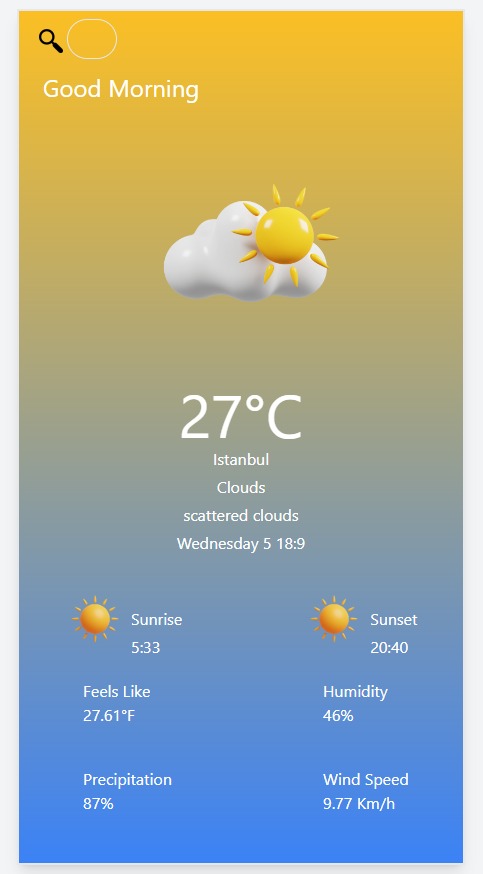
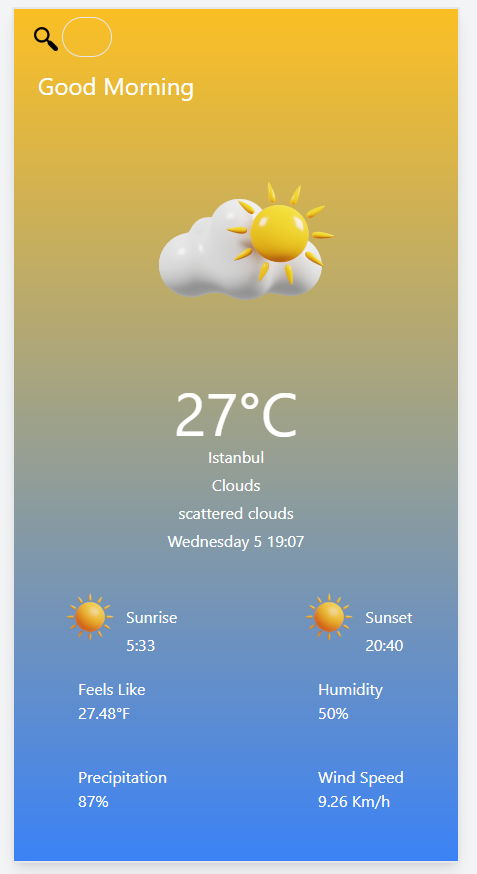
fix minutes and add screenshots

diff --git a/src/App.jsx b/src/App.jsx
@@ -73,10 +73,15 @@ function App() {
     ];
     const time = new Date();
     const hours = time.getHours();
-    const minutes = time.getMinutes();
+    let minutes = time.getMinutes();
     const month = time.getMonth();
     const day = time.getDay();
+    if (minutes < 10) {
+      minutes = "0" + minutes;
+    }
     const dateHours = +hours + ":" + minutes;
+
+    console.log(minutes);
     const date = days[day] + " " + month + " " + dateHours;
 
     return date;
@@ -270,6 +275,8 @@ function App() {
                 />
                 <h2 className="m-0 text-white text-6xl mt-3 mb-1">°C</h2>
                 <h4 className="m-0 text-white mb-1">THUNDERSTORM</h4>
+                <h2 className="m-0 text-white mb-1">Sun</h2>
+                <h4 className="m-0 text-white mb-1">few clouds</h4>
                 <p className="m-0 text-white">Friday 16 - 09.41am</p>
               </div>
               <div className="mt-10">
